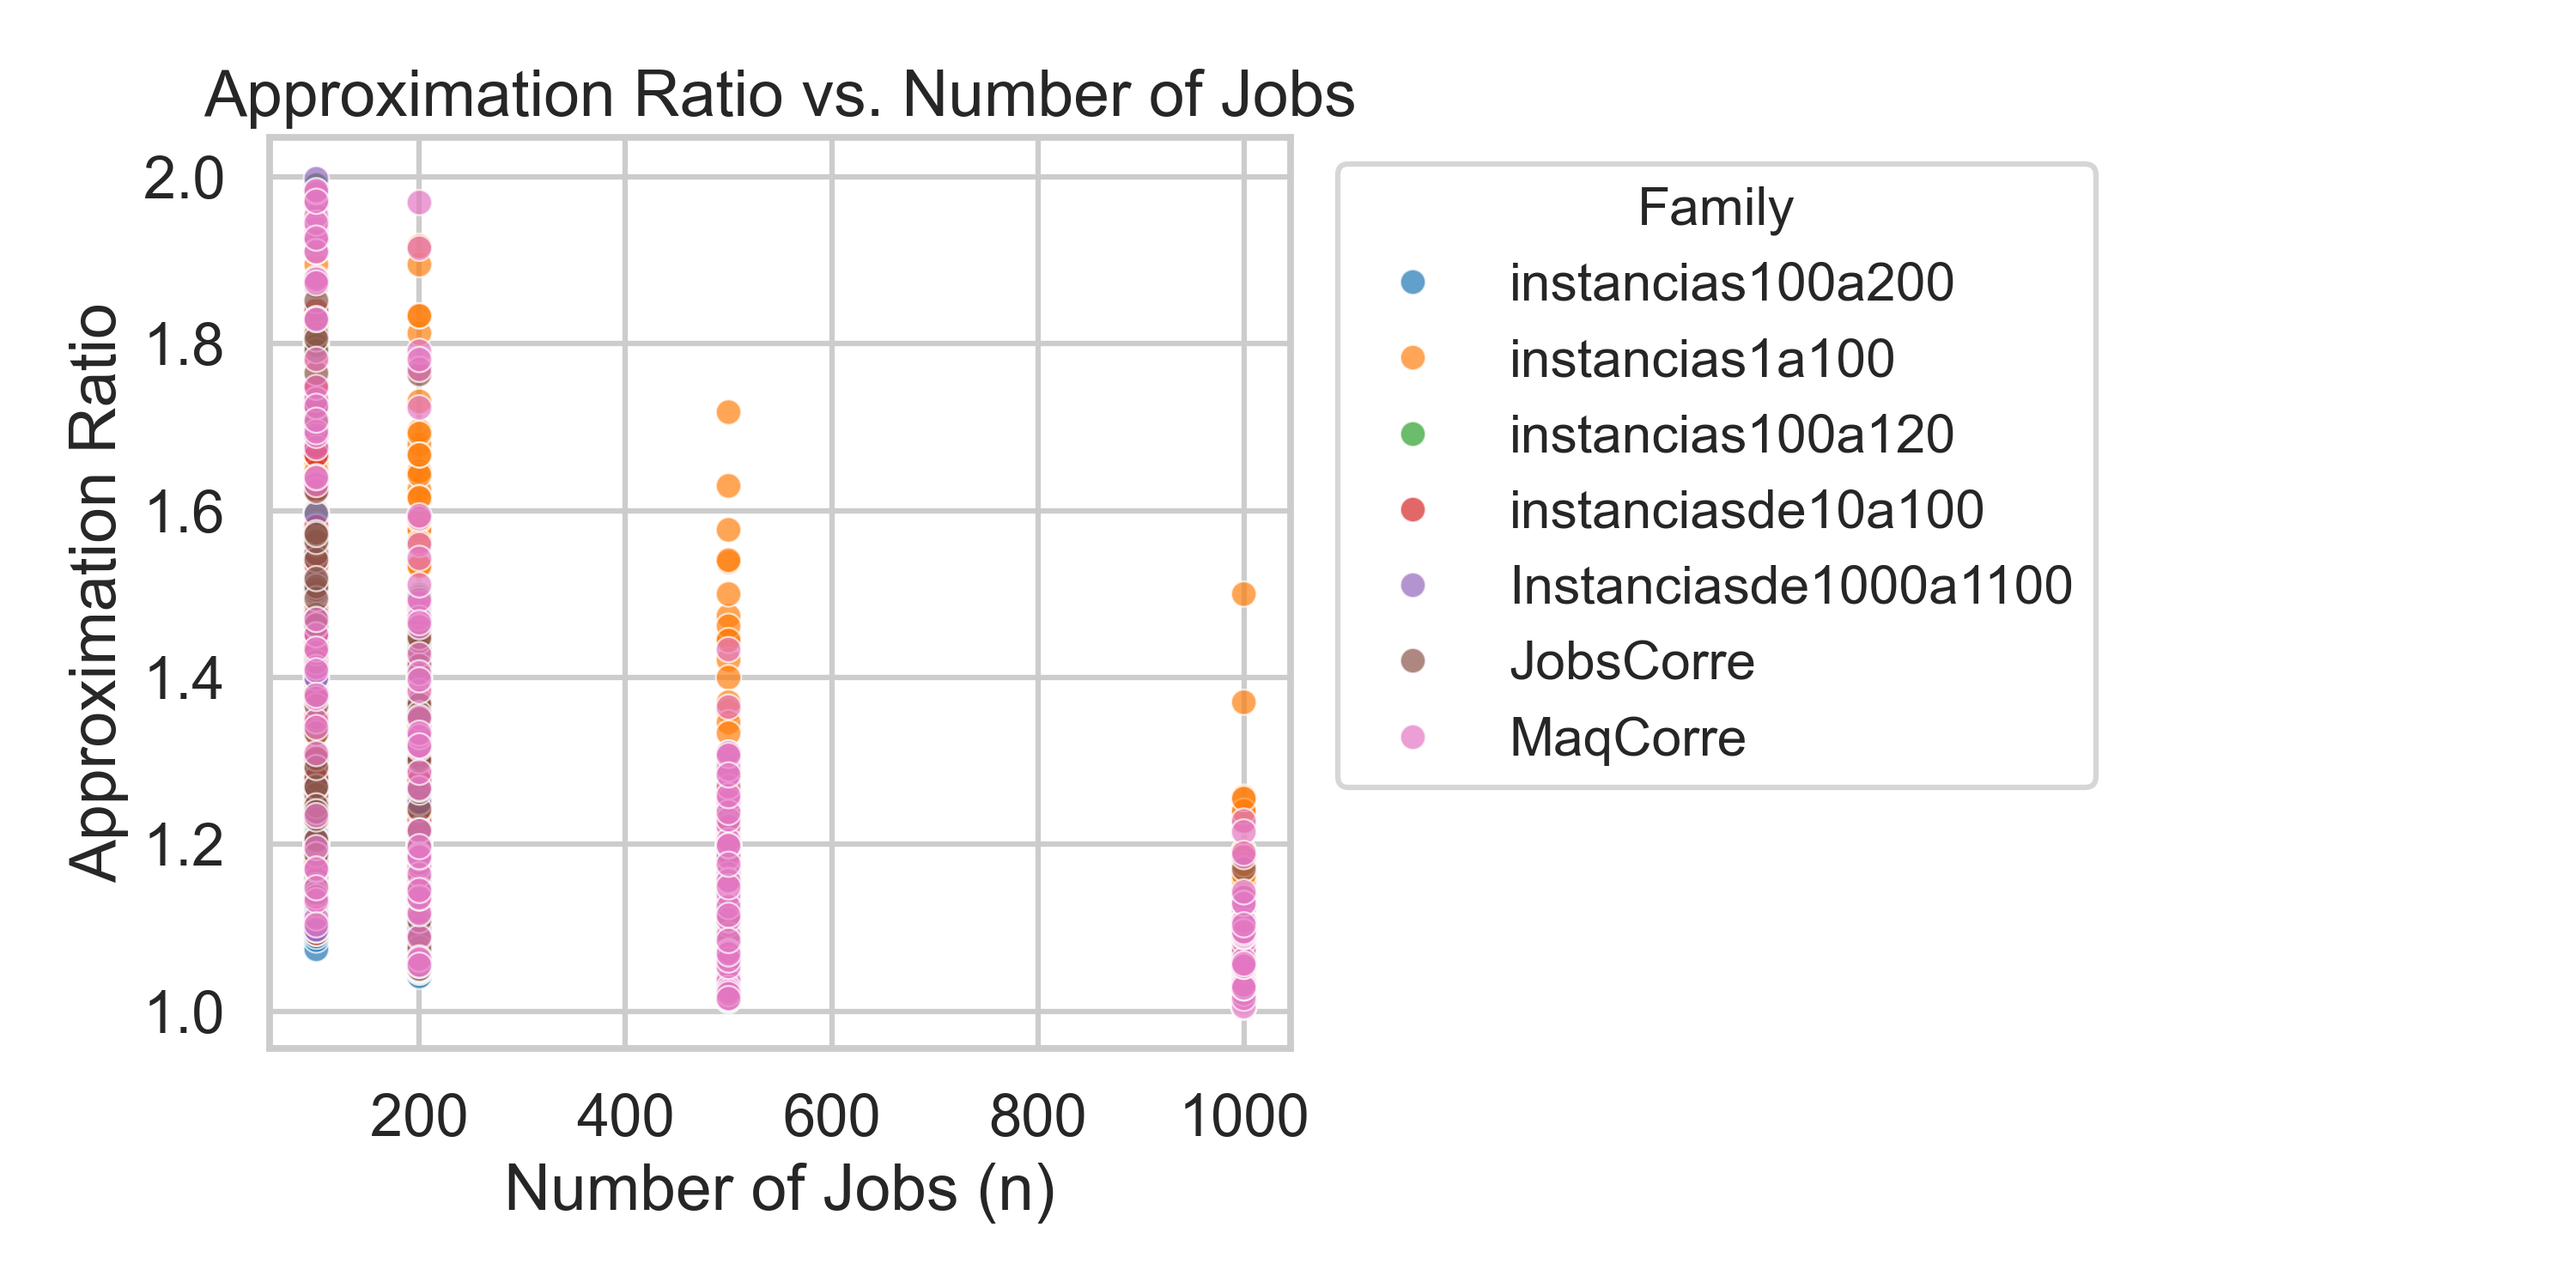
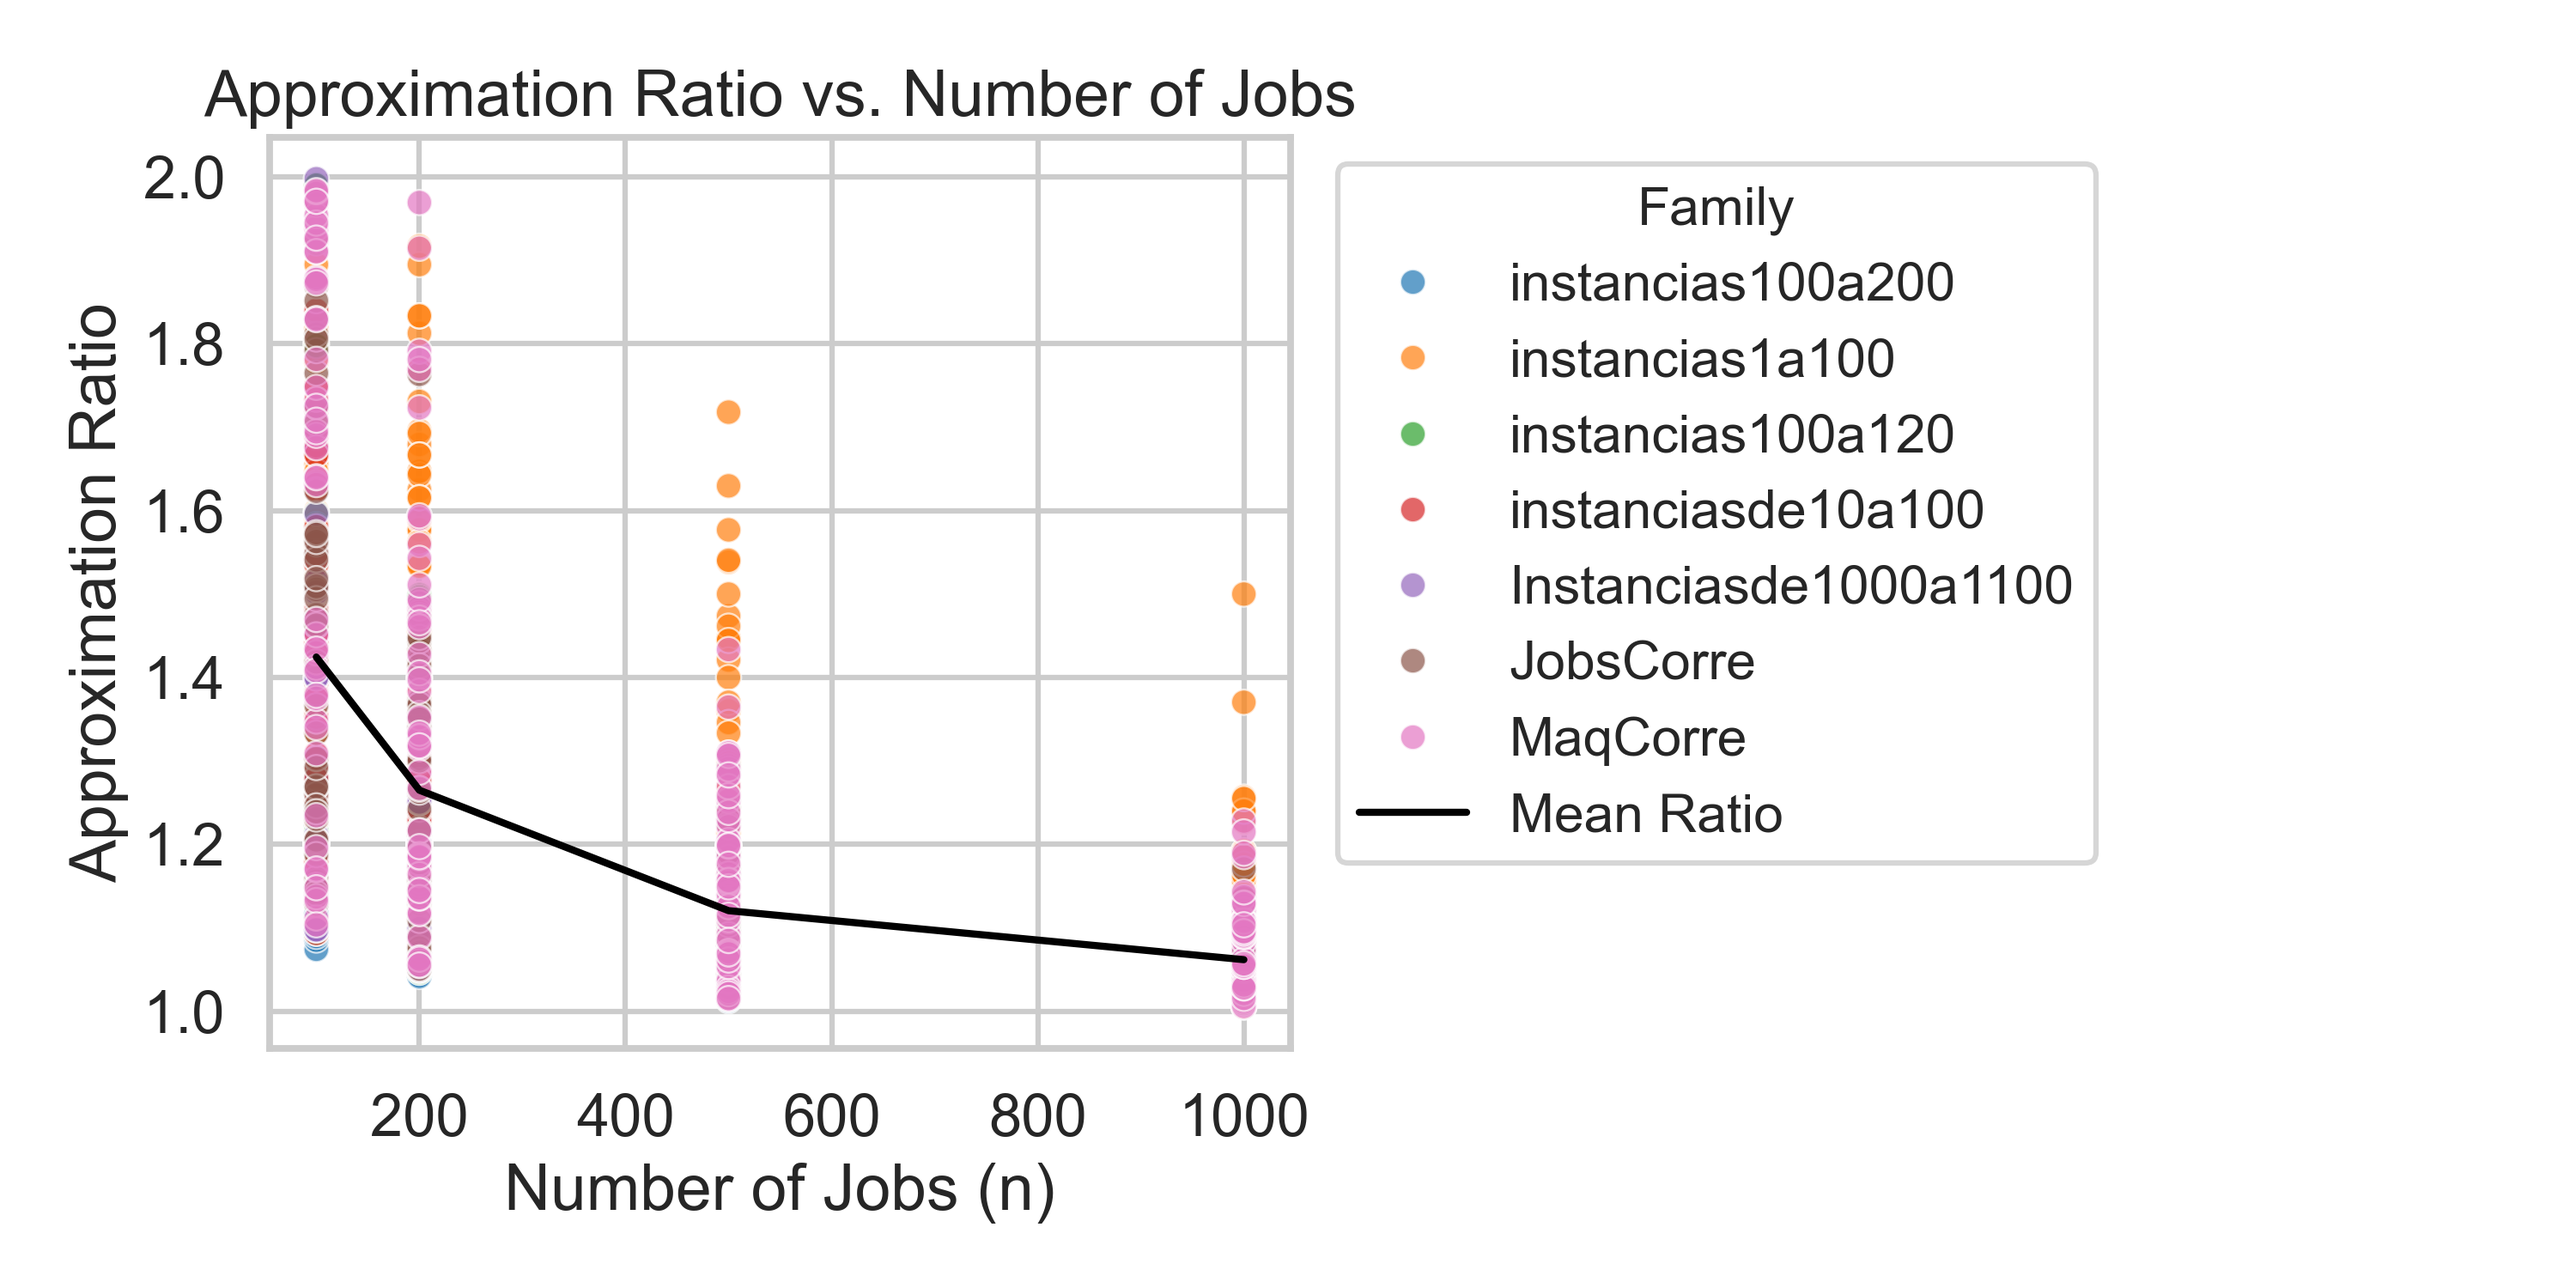
chore: update plots

diff --git a/3/plot.py b/3/plot.py
@@ -71,12 +71,15 @@ def main():
     plt.savefig(plots_dir / "ratio_histogram.png", dpi=300)
     plt.close()
 
-    # --- Plot 3: Ratio vs. Number of Jobs (small legend) ---
+    # --- Plot 3: Ratio vs. Number of Jobs (with mean line, no integral jobs plot) ---
     plt.figure(figsize=(10, 5))
-    sns.scatterplot(
+    ax = sns.scatterplot(
         x="n", y="ratio", hue="subfolder", data=df,
         palette="tab10", alpha=0.7, edgecolor="w", s=50
     )
+    # Add mean line for ratio by n
+    mean_ratio = df.groupby("n")["ratio"].mean().reset_index()
+    plt.plot(mean_ratio["n"], mean_ratio["ratio"], color="black", linewidth=2, label="Mean Ratio")
     plt.title("Approximation Ratio vs. Number of Jobs")
     plt.xlabel("Number of Jobs (n)")
     plt.ylabel("Approximation Ratio")
@@ -86,6 +89,26 @@ def main():
     )
     plt.tight_layout(rect=[0,0,0.85,1])
     plt.savefig(plots_dir / "ratio_vs_n_scatter.png", dpi=300)
+    plt.close()
+
+    # --- Plot 3b: Total Run Time vs. Number of Jobs (with mean line) ---
+    plt.figure(figsize=(10, 5))
+    ax = sns.scatterplot(
+        x="n", y="time_total", hue="subfolder", data=df,
+        palette="tab10", alpha=0.7, edgecolor="w", s=50
+    )
+    # Add mean line for time by n
+    mean_time = df.groupby("n")["time_total"].mean().reset_index()
+    plt.plot(mean_time["n"], mean_time["time_total"], color="black", linewidth=2, label="Mean Time")
+    plt.title("Total Run Time vs. Number of Jobs")
+    plt.xlabel("Number of Jobs (n)")
+    plt.ylabel("Total Time (s)")
+    plt.legend(
+        title="Family", bbox_to_anchor=(1.02, 1), loc="upper left",
+        fontsize="small", title_fontsize="small", ncol=1
+    )
+    plt.tight_layout(rect=[0,0,0.85,1])
+    plt.savefig(plots_dir / "time_vs_n_scatter.png", dpi=300)
     plt.close()
 
     # --- Plot 4: Cmax vs. Best Known Objective (legend at bottom) ---
@@ -126,26 +149,6 @@ def main():
     plt.xticks(rotation=45, ha="right")
     plt.tight_layout()
     plt.savefig(plots_dir / "time_by_family.png", dpi=300)
-    plt.close()
-
-    # --- Plot 6: Fraction of Jobs Integral in LP by Family ---
-    plt.figure(figsize=(12, 5))
-    ax = sns.boxplot(
-        x="subfolder", y="frac_int", data=df,
-        showfliers=False, palette="Set1"
-    )
-    
-    # overlay the theoretical lower‐bound as little horizontal ticks
-    sns.stripplot(
-        x="subfolder", y="frac_lb", data=df,
-        marker="_", size=12, color="black", ax=ax,
-    )
-    plt.title("Fraction of Jobs Integral in LP Extreme Point by Family")
-    plt.xlabel("Instance Family")
-    plt.ylabel("Fraction Integral")
-    plt.xticks(rotation=45, ha="right")
-    plt.tight_layout()
-    plt.savefig(plots_dir / "frac_int_by_family.png", dpi=300)
     plt.close()
 
     print("\n✅ Plots saved in:", plots_dir)
